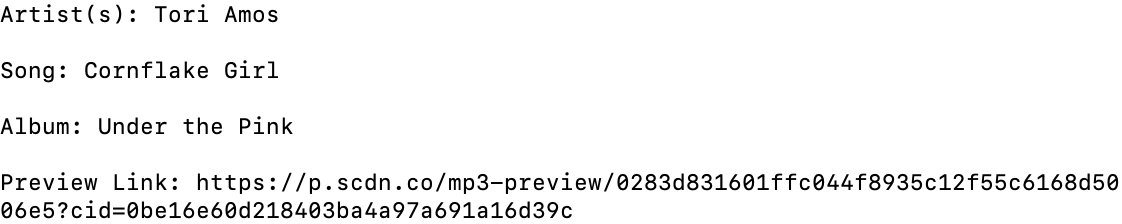
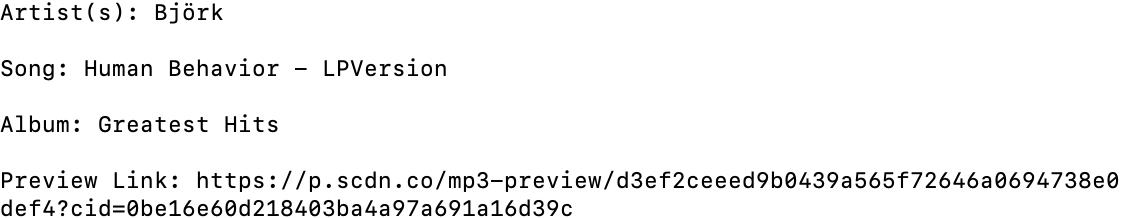
updated README.md

diff --git a/README.md b/README.md
@@ -24,13 +24,13 @@ To use liriNodeApp from your local environment:
 1. Get an API key for Spotify here: <https://developer.spotify.com/my-applications/#!/>.
 2. Clone my repo using the command line.
 3. Change the directory to the cloned repo.
-4. Create a dotenv file and put your Spotify's client ID and client secret passwordinto it.
+4. Create a dotenv file and put your Spotify's client ID and client secret password into it.
 4. Install all required NPM packages by typing npm install.
 5. Start the application server on the command line by typing node lire.js following one of the commands below.
 
 ### concert-this 
 
-Type in the command line: node liri.js concert-this The Black Keys.
+Type in the command line: node liri.js concert-this Kacey Musgraves.
 
 ![Image of concert-this](./images/concertThis.png)
 
@@ -40,7 +40,7 @@ Then the result of your search appears in the log.txt:
 
 ### spotify-this-song
 
-Type in the command line: node liri.js spotify-this-song Cornflake Girl.
+Type in the command line: node liri.js spotify-this-song Human Behavior.
 
 ![Image of spotify-this-song](./images/spotifyThisSong.png)
 
